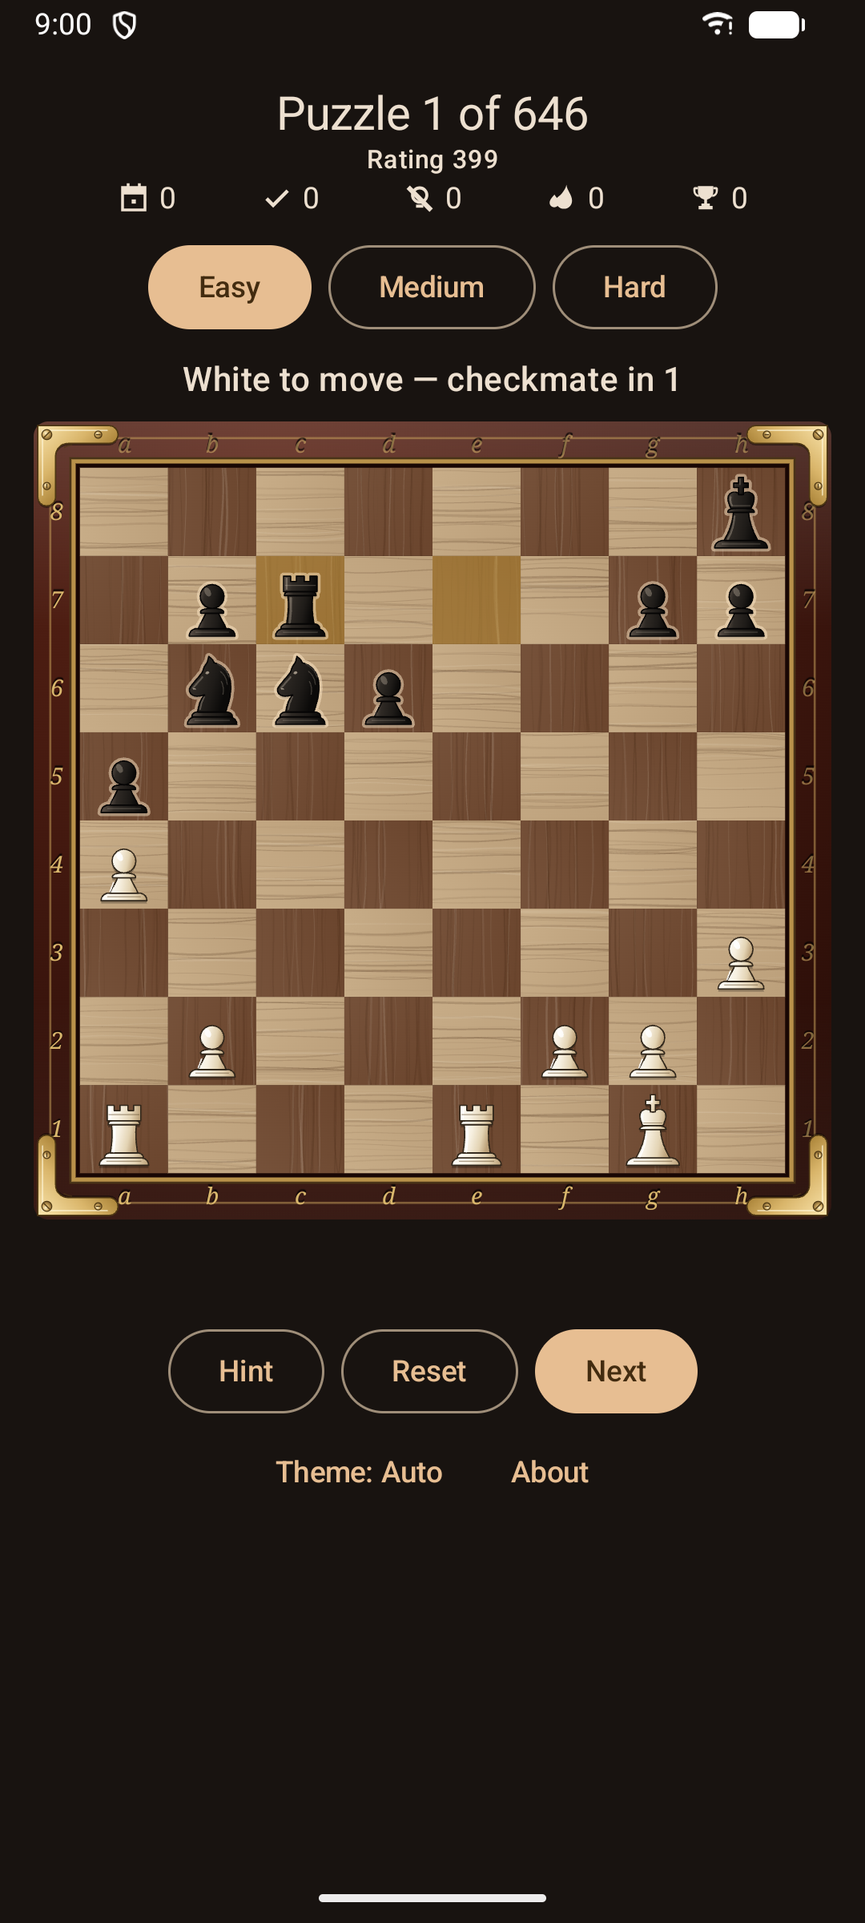
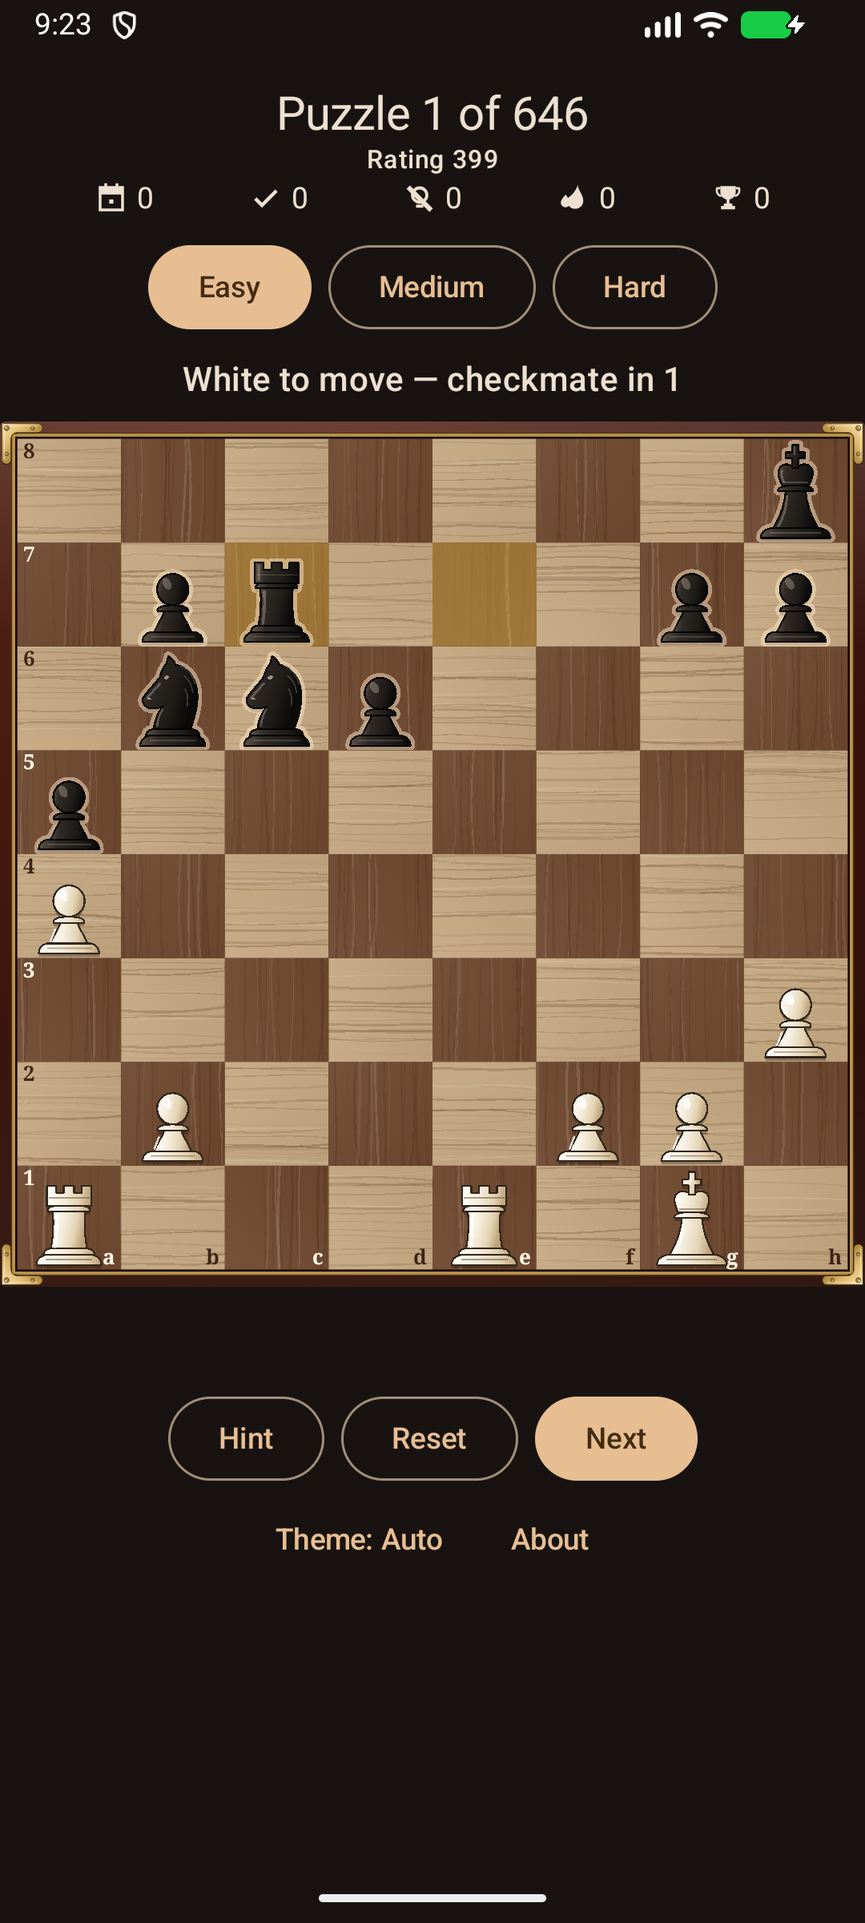
feat: a bigger board with its coordinates written on the squares
The 0.5.11 frame took 11.6% of the board's width, so squares shrank from
47dp to 42dp on a phone, and the carved pawns came out about a quarter
shorter than the old glyphs. The frame is now a thin mahogany rim (2% a
side) whose bands scale with it, the brass corner brackets fit inside the
rim at about half their old thickness, and the files and ranks are written
on the edge squares: ranks top-left up the left-hand file, files
bottom-right along the bottom rank, dark on maple and pale on walnut, and
on Black's edges when the board is flipped. The set is drawn 12% larger in
its squares. The board runs the screen's full width and takes the largest
square that fits the height the other rows leave, so the buttons stay on
short screens. On a 1080px phone squares go from 110px to 130px.

The labels clear 4.5:1 on their square's wood and 3:1 on every shade the
grain paints; no ink reaches 4.5:1 on walnut's palest flecks, even white.

Prepares the 0.5.12 release: VERSION_NAME 0.5.12, VERSION_CODE 5012, its
changelog, and fresh screenshots for the site, the README and F-Droid.

diff --git a/app/src/main/java/dk/cocode/chess/ui/board/BoardFrame.kt b/app/src/main/java/dk/cocode/chess/ui/board/BoardFrame.kt
@@ -5,80 +5,33 @@ import androidx.compose.ui.geometry.Offset
 import androidx.compose.ui.geometry.Size
 import androidx.compose.ui.graphics.Brush
 import androidx.compose.ui.graphics.Color
-import androidx.compose.ui.graphics.Shadow
 import androidx.compose.ui.graphics.drawscope.DrawScope
-import androidx.compose.ui.graphics.drawscope.Stroke
-import androidx.compose.ui.text.TextLayoutResult
-import androidx.compose.ui.text.TextMeasurer
-import androidx.compose.ui.text.TextStyle
-import androidx.compose.ui.text.drawText
-import androidx.compose.ui.text.font.FontFamily
-import androidx.compose.ui.text.font.FontStyle
-import androidx.compose.ui.unit.dp
-import dk.cocode.chess.core.model.Square
 
 private val MAHOGANY = arrayOf(0f to Color(0xFF5C2416), .55f to Color(0xFF3B150D), 1f to Color(0xFF220A05))
 private val LACQUER_SHEEN = arrayOf(
     0f to Color(0x24FFFFFF), .26f to Color.Transparent, .72f to Color.Transparent, 1f to Color(0x0DFFFFFF),
 )
-private val BRASS_HAIRLINE = Color(0x80C9A45C)
+
+/** How far the bands around the squares reach into the frame, as a fraction of its depth; the brass corners fill the rest. */
+internal const val BAND_REACH = .36f
 
 /** The bands around the squares, outermost first: dark bronze, a brass fillet, then a black reveal. */
-private val BORDER_BANDS = listOf(5f to Color(0xFF4A3418), 4f to Color(0xFFB8914A), 2f to Color(0xFF190704))
-
-private val COORDINATE = Color(0xFFD9B76C)
-private const val FAR_SIDE_ALPHA = .55f
+private val BORDER_BANDS = listOf(BAND_REACH to Color(0xFF4A3418), .3f to Color(0xFFB8914A), .12f to Color(0xFF190704))
 
 /**
- * The lacquered mahogany frame around a board [frame] px deep with [squarePx] squares: a brass hairline,
- * the bands that seat the squares, the files and ranks in the frame, and brass brackets on the corners.
- * The near-side coordinates (bottom and left) are bright; the far side repeats them faded.
+ * The lacquered mahogany rim around a board [frame] px deep with [squarePx] squares: the bands that seat
+ * the squares, and brass brackets on the corners filling the mahogany outside the bands.
  */
-internal fun DrawScope.drawFrame(frame: Float, squarePx: Float, flipped: Boolean, textMeasurer: TextMeasurer) {
+internal fun DrawScope.drawFrame(frame: Float, squarePx: Float) {
     val corner = CornerRadius(frame * .32f)
     drawRoundRect(
         brush = Brush.radialGradient(*MAHOGANY, center = Offset(size.width * .3f, size.height * .1f), radius = size.width * 1.2f),
         cornerRadius = corner,
     )
     drawRoundRect(brush = Brush.verticalGradient(*LACQUER_SHEEN), cornerRadius = corner)
-    val inset = frame * .36f
-    drawRect(
-        color = BRASS_HAIRLINE,
-        topLeft = Offset(inset, inset),
-        size = Size(size.width - 2 * inset, size.height - 2 * inset),
-        style = Stroke(1.dp.toPx()),
-    )
     for ((reach, color) in BORDER_BANDS) {
-        val grow = reach.dp.toPx()
+        val grow = frame * reach
         drawRect(color, Offset(frame - grow, frame - grow), Size(squarePx * 8 + 2 * grow, squarePx * 8 + 2 * grow))
     }
-    drawCoordinates(frame, squarePx, flipped, textMeasurer)
-    drawBrassCorners(frame * 1.9f)
-}
-
-private fun DrawScope.drawCoordinates(frame: Float, squarePx: Float, flipped: Boolean, textMeasurer: TextMeasurer) {
-    val style = TextStyle(
-        color = COORDINATE,
-        fontSize = (frame * .5f).toSp(),
-        fontStyle = FontStyle.Italic,
-        fontFamily = FontFamily.Serif,
-        shadow = Shadow(color = Color(0xBF000000), offset = Offset(0f, -1.dp.toPx())),
-    )
-    val near = size.width - frame / 2f
-    val far = frame / 2f
-    for (i in 0..7) {
-        // Square(i, i) sits on file i and rank i, so BoardGeometry places both labels, flip included.
-        val at = BoardGeometry.squareCenter(Square(i, i), squarePx, flipped) + Offset(frame, frame)
-        val file = textMeasurer.measure(('a' + i).toString(), style)
-        val rank = textMeasurer.measure((i + 1).toString(), style)
-        drawLabel(file, Offset(at.x, near), 1f)
-        drawLabel(file, Offset(at.x, far), FAR_SIDE_ALPHA)
-        drawLabel(rank, Offset(far, at.y), 1f)
-        drawLabel(rank, Offset(near, at.y), FAR_SIDE_ALPHA)
-    }
-}
-
-private fun DrawScope.drawLabel(label: TextLayoutResult, center: Offset, alpha: Float) {
-    val topLeft = Offset(center.x - label.size.width / 2f, center.y - label.size.height / 2f)
-    drawText(textLayoutResult = label, topLeft = topLeft, alpha = alpha)
+    drawBrassCorners(frame * (1 - BAND_REACH))
 }

diff --git a/app/src/main/java/dk/cocode/chess/ui/board/PieceDrawing.kt b/app/src/main/java/dk/cocode/chess/ui/board/PieceDrawing.kt
@@ -12,6 +12,7 @@ import androidx.compose.ui.graphics.drawscope.Fill
 import androidx.compose.ui.graphics.drawscope.Stroke
 import androidx.compose.ui.graphics.drawscope.scale
 import androidx.compose.ui.graphics.drawscope.translate
+import androidx.compose.ui.graphics.drawscope.withTransform
 import androidx.compose.ui.graphics.vector.PathParser
 
 /** One colour of the set: the body's light-to-shadow gradient, its outline, and the detail inks. */
@@ -65,6 +66,10 @@ private val SHADOW = Color(0x47000000)
 internal const val OUTLINE_WIDTH = 1.5f
 private val OUTLINE = Stroke(width = OUTLINE_WIDTH, cap = StrokeCap.Round, join = StrokeJoin.Round)
 
+/** The set spans y 11 (the king's cross) to 94 (the bases' shadow) of its box, so it is drawn this much larger. */
+private const val PIECE_FILL = 1.12f
+private val FILL_PIVOT = Offset(50f, 52f)
+
 /**
  * Draws the piece for FEN letter [code] filling the [size]-px square at [topLeft]: a drop shadow, a
  * warm aura behind ebony, then each shaded, outlined body part back to front and its carved marks.
@@ -72,23 +77,25 @@ private val OUTLINE = Stroke(width = OUTLINE_WIDTH, cap = StrokeCap.Round, join 
 internal fun DrawScope.drawPiece(code: Char, topLeft: Offset, size: Float, palette: BoardPalette) {
     val set = pieceSet(code)
     val paths = PIECE_PATHS.getValue(code.lowercaseChar())
-    translate(topLeft.x, topLeft.y) {
-        scale(size / 100f, pivot = Offset.Zero) {
-            translate(top = 3f) { drawPath(paths.silhouette, SHADOW) }
-            if (set === EBONY) {
-                val aura = Stroke(width = palette.ebonyHaloWidth, join = StrokeJoin.Round)
-                drawPath(paths.silhouette, palette.ebonyHalo, style = aura)
-            }
-            for ((part, bounds) in paths.body) {
-                // The reference shades each part across its own box, lit from the upper left.
-                val end = Offset(bounds.right, bounds.top + bounds.height * .22f)
-                drawPath(part, Brush.linearGradient(*set.shading, start = bounds.topLeft, end = end))
-                drawPath(part, set.outline, style = OUTLINE)
-            }
-            for ((mark, path) in paths.marks) {
-                val style = if (mark.filled) Fill else Stroke(mark.width, cap = StrokeCap.Round, join = StrokeJoin.Round)
-                drawPath(path, set.ink(mark.ink), style = style)
-            }
+    withTransform({
+        translate(topLeft.x, topLeft.y)
+        scale(size / 100f, pivot = Offset.Zero)
+        scale(PIECE_FILL, pivot = FILL_PIVOT)
+    }) {
+        translate(top = 3f) { drawPath(paths.silhouette, SHADOW) }
+        if (set === EBONY) {
+            val aura = Stroke(width = palette.ebonyHaloWidth, join = StrokeJoin.Round)
+            drawPath(paths.silhouette, palette.ebonyHalo, style = aura)
+        }
+        for ((part, bounds) in paths.body) {
+            // The reference shades each part across its own box, lit from the upper left.
+            val end = Offset(bounds.right, bounds.top + bounds.height * .22f)
+            drawPath(part, Brush.linearGradient(*set.shading, start = bounds.topLeft, end = end))
+            drawPath(part, set.outline, style = OUTLINE)
+        }
+        for ((mark, path) in paths.marks) {
+            val style = if (mark.filled) Fill else Stroke(mark.width, cap = StrokeCap.Round, join = StrokeJoin.Round)
+            drawPath(path, set.ink(mark.ink), style = style)
         }
     }
 }

diff --git a/app/src/test/java/dk/cocode/chess/ui/board/BoardRenderTest.kt b/app/src/test/java/dk/cocode/chess/ui/board/BoardRenderTest.kt
@@ -79,16 +79,46 @@ class BoardRenderTest {
         assertEquals(listOf(Square.of("e2"), Square.of("e4")), drags)
     }
 
-    @Test fun boardSitsInAMahoganyFrameWithBrassCorners() {
+    @Test fun boardSitsInAMahoganyRimWithBrassCorners() {
         val bitmap = show()
         val board = boardPx()
         val frame = BoardGeometry.frameDepth(board)
-        val lacquer = Color(bitmap.getPixel((frame * .15f).toInt(), (board / 2 + 7).toInt()))
+        val lacquer = Color(bitmap.getPixel((frame * .3f).toInt(), (board / 2 + 7).toInt()))
         assertTrue(lacquer.red > lacquer.green * 1.5f && lacquer.red < .45f) // deep red-brown mahogany
-        for ((x, y) in listOf(frame * .89f to frame * .28f, board - frame * .89f to board - frame * .28f)) {
+        // A bracket's arm runs 3 to 16 units deep in its 64-unit box, filling the mahogany outside the bands.
+        val k = frame * (1 - BAND_REACH) / 16f
+        for ((x, y) in listOf(30 * k to 9.5f * k, board - 30 * k to board - 9.5f * k)) {
             val brass = Color(bitmap.getPixel(x.toInt(), y.toInt()))
             assertTrue(brass.red > .6f && brass.green > .45f && brass.blue < brass.green) // a gold plate
         }
+    }
+
+    /** How many pixels in the quarter of [square] at [corner] (its fractions across and down) are [ink]. */
+    private fun inkIn(bitmap: Bitmap, square: String, ink: Color, corner: Offset, flipped: Boolean = false): Int {
+        val squarePx = BoardGeometry.squareSize(boardPx())
+        val from = centerOf(Square.of(square), flipped) + (corner - Offset(.5f, .5f)) * squarePx
+        val xs = from.x.toInt() until (from.x + squarePx / 2).toInt()
+        val ys = from.y.toInt() until (from.y + squarePx / 2).toInt()
+        return xs.sumOf { x -> ys.count { y -> near(bitmap.getPixel(x, y), ink.toArgb(), 40) } }
+    }
+
+    private val topLeft = Offset.Zero
+    private val bottomRight = Offset(.5f, .5f)
+
+    @Test fun filesAndRanksAreWrittenOnTheEdgeSquares() {
+        val bitmap = show()
+        assertTrue(inkIn(bitmap, "e1", LABEL_ON_WALNUT, bottomRight) > 0) // e1's file, pale on walnut
+        assertTrue(inkIn(bitmap, "d1", LABEL_ON_MAPLE, bottomRight) > 0) // d1's file, dark on maple
+        assertTrue(inkIn(bitmap, "a4", LABEL_ON_MAPLE, topLeft) > 0) // the fourth rank
+        assertEquals(0, inkIn(bitmap, "e1", LABEL_ON_WALNUT, topLeft)) // only the a-file carries ranks
+        assertEquals(0, inkIn(bitmap, "e2", LABEL_ON_MAPLE, bottomRight)) // only the first rank carries files
+    }
+
+    @Test fun flippedBoardWritesItsCoordinatesOnBlacksEdges() {
+        val bitmap = show(empty.copy(flipped = true))
+        assertTrue(inkIn(bitmap, "e8", LABEL_ON_MAPLE, bottomRight, flipped = true) > 0) // e8 is at the bottom now
+        assertTrue(inkIn(bitmap, "h5", LABEL_ON_MAPLE, topLeft, flipped = true) > 0) // h is the left-hand file
+        assertEquals(0, inkIn(bitmap, "e1", LABEL_ON_WALNUT, bottomRight, flipped = true)) // e1 is at the top
     }
 
     @Test fun mapleHasVisibleGrainByDay() = assertGrain(DayBoardPalette)

diff --git a/app/src/main/java/dk/cocode/chess/ui/PuzzleScreen.kt b/app/src/main/java/dk/cocode/chess/ui/PuzzleScreen.kt
@@ -5,7 +5,6 @@ import androidx.compose.foundation.layout.Column
 import androidx.compose.foundation.layout.Row
 import androidx.compose.foundation.layout.Spacer
 import androidx.compose.foundation.layout.fillMaxSize
-import androidx.compose.foundation.layout.fillMaxWidth
 import androidx.compose.foundation.layout.height
 import androidx.compose.foundation.layout.padding
 import androidx.compose.material3.Button
@@ -86,8 +85,10 @@ fun PuzzleScreenContent(
     onThemeToggle: () -> Unit = {},
 ) {
     Scaffold { padding ->
+        val textInset = Modifier.padding(horizontal = 16.dp)
         Column(
-            modifier = Modifier.padding(padding).fillMaxSize().padding(16.dp),
+            // No side padding, so the board can run the full width; the text rows carry their own.
+            modifier = Modifier.padding(padding).fillMaxSize().padding(vertical = 16.dp),
             horizontalAlignment = Alignment.CenterHorizontally,
         ) {
             Text("Puzzle ${state.position} of ${state.bandSize}", style = MaterialTheme.typography.titleLarge)
@@ -99,17 +100,23 @@ fun PuzzleScreenContent(
             Spacer(Modifier.height(8.dp))
             DifficultyRow(available = difficulties, current = difficultyOf(state.rating), onSelect = onDifficulty)
             Spacer(Modifier.height(8.dp))
-            Text(state.promptText, textAlign = TextAlign.Center, style = MaterialTheme.typography.titleMedium)
+            Text(
+                state.promptText,
+                modifier = textInset,
+                textAlign = TextAlign.Center,
+                style = MaterialTheme.typography.titleMedium,
+            )
             Spacer(Modifier.height(8.dp))
             ChessBoard(
                 state = state,
                 onSquareTap = onSquareTap,
                 onDragStart = onDragStart,
                 onDragEnd = onDragEnd,
-                modifier = Modifier.fillMaxWidth(),
+                // The largest square that fits both the width and the height the other rows leave.
+                modifier = Modifier.weight(1f, fill = false),
             )
             Spacer(Modifier.height(8.dp))
-            Text(feedbackMessage(state.feedback))
+            Text(feedbackMessage(state.feedback), modifier = textInset)
             Spacer(Modifier.height(16.dp))
             Row(horizontalArrangement = Arrangement.spacedBy(8.dp)) {
                 OutlinedButton(onClick = onHint, enabled = state.status == PuzzleStatus.IN_PROGRESS) {

diff --git a/app/src/main/java/dk/cocode/chess/ui/board/BoardCoordinates.kt b/app/src/main/java/dk/cocode/chess/ui/board/BoardCoordinates.kt
@@ -1,0 +1,45 @@
+package dk.cocode.chess.ui.board
+
+import androidx.compose.ui.geometry.Offset
+import androidx.compose.ui.graphics.Color
+import androidx.compose.ui.graphics.drawscope.DrawScope
+import androidx.compose.ui.text.TextLayoutResult
+import androidx.compose.ui.text.TextMeasurer
+import androidx.compose.ui.text.TextStyle
+import androidx.compose.ui.text.drawText
+import androidx.compose.ui.text.font.FontFamily
+import androidx.compose.ui.text.font.FontWeight
+import dk.cocode.chess.core.model.Square
+
+/** The coordinates are inlaid: walnut-dark on maple squares, pale holly on walnut ones. */
+internal val LABEL_ON_MAPLE = Color(0xFF3E2415)
+internal val LABEL_ON_WALNUT = Color(0xFFFFF6E4)
+
+/**
+ * The files along the bottom row and the ranks up the left-hand column, written on the squares
+ * themselves: each rank in its square's top-left corner, each file in its bottom-right.
+ */
+internal fun DrawScope.drawCoordinates(squarePx: Float, flipped: Boolean, textMeasurer: TextMeasurer) {
+    val inset = squarePx * .06f
+    val edge = if (flipped) 7 else 0   // both the left-hand file and the bottom rank
+    for (i in 0..7) {
+        val rankSquare = Square(edge, i)
+        val rank = measureLabel((i + 1).toString(), rankSquare, squarePx, textMeasurer)
+        drawText(rank, topLeft = BoardGeometry.squareTopLeft(rankSquare, squarePx, flipped) + Offset(inset, 0f))
+        val fileSquare = Square(i, edge)
+        val file = measureLabel(('a' + i).toString(), fileSquare, squarePx, textMeasurer)
+        val bottomRight = BoardGeometry.squareTopLeft(fileSquare, squarePx, flipped) + Offset(squarePx, squarePx)
+        drawText(file, topLeft = bottomRight - Offset(file.size.width + inset, file.size.height.toFloat()))
+    }
+}
+
+private fun DrawScope.measureLabel(text: String, on: Square, squarePx: Float, textMeasurer: TextMeasurer): TextLayoutResult =
+    textMeasurer.measure(
+        text,
+        TextStyle(
+            color = if (BoardGeometry.isLight(on)) LABEL_ON_MAPLE else LABEL_ON_WALNUT,
+            fontSize = (squarePx * .2f).toSp(),
+            fontFamily = FontFamily.Serif,
+            fontWeight = FontWeight.SemiBold,
+        ),
+    )

diff --git a/app/src/main/java/dk/cocode/chess/ui/board/ChessBoard.kt b/app/src/main/java/dk/cocode/chess/ui/board/ChessBoard.kt
@@ -28,7 +28,7 @@ fun ChessBoard(
     onDragEnd: (Square) -> Unit,
     modifier: Modifier = Modifier,
 ) {
-    val textMeasurer = rememberTextMeasurer(cacheSize = 16)   // the frame's 16 coordinate labels
+    val textMeasurer = rememberTextMeasurer(cacheSize = 16)   // the 16 coordinate labels
     val palette = LocalBoardPalette.current
     val flipped = state.flipped
     var dragTarget by remember { mutableStateOf(Square(0, 0)) }
@@ -57,12 +57,13 @@ fun ChessBoard(
     ) {
         val frame = BoardGeometry.frameDepth(size.width)
         val squarePx = BoardGeometry.squareSize(size.width)
-        drawFrame(frame, squarePx, flipped, textMeasurer)
+        drawFrame(frame, squarePx)
         translate(frame, frame) {
             drawSquares(palette, squarePx, flipped)
             state.lastMove?.let { highlightMove(it.from, it.to, palette.lastMoveTint, squarePx, flipped) }
             state.hint?.let { highlightMove(it.from, it.to, palette.hintTint, squarePx, flipped, palette.hintRing) }
             state.selected?.let { tintSquare(it, palette.selectedTint, squarePx, flipped, palette.selectedRing) }
+            drawCoordinates(squarePx, flipped, textMeasurer)
             drawPieces(state, palette, squarePx, flipped)
             drawTargets(state, palette.marker, squarePx, flipped)
         }

diff --git a/app/src/test/java/dk/cocode/chess/ui/board/BoardPaletteTest.kt b/app/src/test/java/dk/cocode/chess/ui/board/BoardPaletteTest.kt
@@ -81,6 +81,20 @@ class BoardPaletteTest {
         }
     }
 
+    /**
+     * The coordinates are small text, so they clear WCAG's 4.5:1 on their square's wood, and 3:1 on every
+     * shade its grain paints. No ink reaches 4.5:1 on walnut's palest fleck: even white stops near 3.4:1.
+     */
+    @Test fun coordinatesReadOnTheirWood() {
+        palettes.forEach { p ->
+            val (maple, walnut) = paintedWood(p)
+            val onWood = listOf(contrast(LABEL_ON_MAPLE, p.lightSquare), contrast(LABEL_ON_WALNUT, p.darkSquare))
+            val onGrain = listOf(maple.minOf { contrast(LABEL_ON_MAPLE, it) }, walnut.minOf { contrast(LABEL_ON_WALNUT, it) })
+            assertTrue("maple, walnut: $onWood", onWood.all { it >= 4.5f })
+            assertTrue("maple, walnut grain: $onGrain", onGrain.all { it >= 3f })
+        }
+    }
+
     /** CIE ΔE between two opaque colours: about 10 and up reads as a different colour at a glance. */
     private fun deltaE(a: Color, b: Color): Float {
         val (p, q) = a.convert(ColorSpaces.CieLab) to b.convert(ColorSpaces.CieLab)

diff --git a/app/src/main/java/dk/cocode/chess/ui/board/BrassCorner.kt b/app/src/main/java/dk/cocode/chess/ui/board/BrassCorner.kt
@@ -29,9 +29,9 @@ private val BRASS = arrayOf(
 private val SCREW = arrayOf(0f to Color(0xFFFFF2C9), .5f to Color(0xFFC9A45C), 1f to Color(0xFF6E5125))
 private val ENGRAVING = Color(0xFF4D3713)
 
-/** Brass brackets [sizePx] square over the four corners of the board. */
-internal fun DrawScope.drawBrassCorners(sizePx: Float) {
-    val k = sizePx / 64f
+/** Brass brackets over the four corners of the board, their arms reaching [depth] px in from its edges. */
+internal fun DrawScope.drawBrassCorners(depth: Float) {
+    val k = depth / 16f   // the plate's arms end 16 units into its 64-unit box
     for ((x, y) in listOf(0f to 0f, size.width to 0f, 0f to size.height, size.width to size.height)) {
         withTransform({
             translate(x, y)

diff --git a/app/src/test/java/dk/cocode/chess/ui/board/PieceRenderTest.kt b/app/src/test/java/dk/cocode/chess/ui/board/PieceRenderTest.kt
@@ -91,6 +91,13 @@ class PieceRenderTest {
         assertTrue(facts, only('n', lopsided) { a, b -> a > b + 3 })   // 7% against at most 1%
     }
 
+    /** The set is drawn larger than its art box so it fills the square: the king nearly to the top, the pawn two-thirds up. */
+    @Test fun piecesFillTheirSquare() {
+        fun rows(code: Char) = silhouette(piece(code, Color.Black), Color.Black).map { it / px }
+        assertTrue(rows('K').min() < 8)   // the bare art's cross starts at row 10
+        assertTrue(rows('P').let { it.max() - it.min() } > 64)   // the bare art's pawn is 60 rows tall
+    }
+
     @Test fun ivoryIsPaleAndEbonyIsDarkWithShading() {
         val ivory = piece('Q', Color.Black)
         val ebony = piece('q', Color.White)

diff --git a/app/src/test/java/dk/cocode/chess/ui/board/BoardGeometryTest.kt b/app/src/test/java/dk/cocode/chess/ui/board/BoardGeometryTest.kt
@@ -40,7 +40,7 @@ class BoardGeometryTest {
     @Test fun frameLeavesEightSquaresBetweenItsSides() {
         val board = 1000f
         val frame = BoardGeometry.frameDepth(board)
-        assertEquals(58f, frame, 1e-3f)
+        assertEquals(20f, frame, 1e-3f)
         assertEquals(board, 2 * frame + 8 * BoardGeometry.squareSize(board), 1e-3f)
     }
 

diff --git a/app/src/main/java/dk/cocode/chess/ui/board/BoardGeometry.kt b/app/src/main/java/dk/cocode/chess/ui/board/BoardGeometry.kt
@@ -9,7 +9,7 @@ import dk.cocode.chess.core.model.Square
  */
 object BoardGeometry {
     /** How deep the frame around the squares is, as a fraction of the framed board's width. */
-    private const val FRAME_FRACTION = 0.058f
+    private const val FRAME_FRACTION = 0.02f
 
     fun frameDepth(boardPx: Float): Float = boardPx * FRAME_FRACTION
 

diff --git a/docs/ARCHITECTURE.md b/docs/ARCHITECTURE.md
@@ -30,7 +30,8 @@ Two Gradle modules so the chess/puzzle logic is pure-JVM and fully unit-testable
   maps tap/drag/buttons to `PuzzleSession` calls; opponent reply applied synchronously; progress
   counters updated in-memory and persisted asynchronously).
 - `ui/board/` — `BoardGeometry` (pure square⇄pixel mapping inside the frame, flips for Black),
-  `WoodGrain`, `BoardFrame` and `BrassCorner` (the maple-and-walnut board in its mahogany frame),
+  `WoodGrain`, `BoardFrame` and `BrassCorner` (the maple-and-walnut board in its thin mahogany rim),
+  `BoardCoordinates` (files and ranks written on the edge squares),
   `PieceArt` and `PieceDrawing` (vector Staunton pieces, ivory and ebony), `BoardDrawing` (pure
   `DrawScope` helpers), `ChessBoard` (`Canvas` + tap/drag gestures), `PromotionDialog`.
 - `ui/` — `PuzzleScreen` (stateful) + `PuzzleScreenContent` (stateless); `theme/`.
